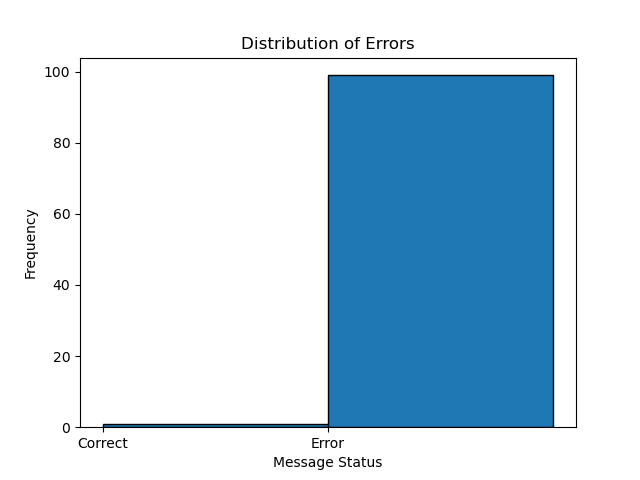
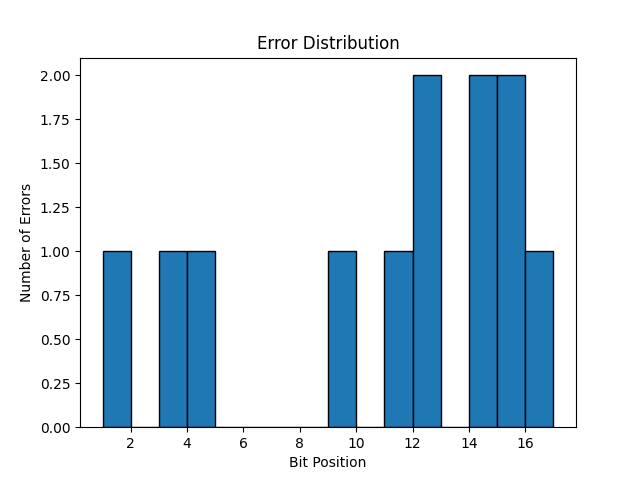
Mejora de algoritmos, implementación de pruebas y mejores estadísiticas

diff --git a/receptor.py b/receptor.py
@@ -87,6 +87,9 @@ def main():
     error_messages = 0
     error_positions = []
     all_errors = []
+    checksum_errors = []
+    message_lengths = []
+    parity_bits_counts = []
 
     while True:
         conn, addr = server_socket.accept()
@@ -103,63 +106,89 @@ def main():
                 conn.send(b'Error')
                 continue
 
-            received_checksum = fletcher_checksum(received_message)
+            # Registrar longitud del mensaje y bits de paridad
+            message_length = len(received_message)
+            parity_bits_count = calculate_parity_bits(message_length)
+            message_lengths.append(message_length)
+            parity_bits_counts.append(parity_bits_count)
+
+            # Calcular el checksum antes de cualquier corrección
+            original_checksum = fletcher_checksum(received_message)
+
+            # Decodificar el mensaje con Hamming
             decoded_message, error_position = hamming_decode(received_message)
-            recalculated_checksum = fletcher_checksum(decoded_message)
             
-            if received_checksum != recalculated_checksum:
-                print("Checksum verification failed! Possible error detected.")
+            # Calcular el checksum después de la corrección
+            corrected_checksum = fletcher_checksum(decoded_message)
+
+            # Comparar checksums
+            if original_checksum != corrected_checksum:
+                print(f"Checksum error detected: {original_checksum} != {corrected_checksum}")
+                checksum_errors.append(1)
+            else:
+                checksum_errors.append(0)
+
+            if error_position:
+                print(f"Error detected and corrected at position: {error_position}")
                 error_messages += 1
                 all_errors.append(1)
                 error_positions.append(error_position)
-                conn.send(b'Error')
             else:
-                print("Checksum verification passed. Message is intact.")
+                print("No errors detected.")
                 corrected_messages += 1
                 all_errors.append(0)
                 conn.send(b'Correct')
 
+            print(f"Received: {received_message}")
+            print(f"Decoded: {decodeASCII(decoded_message)}")
+
             received_messages += 1
-            original_message = decodeASCII(decoded_message)
-            print(f"Original message: {original_message}")
+            print(f"Total messages received: {received_messages}")
+            print(f"Corrected messages: {corrected_messages}")
+            print(f"Error messages: {error_messages}")
 
         conn.close()
         print("Connection closed.")
-        
-        # Mostrar estadísticas
-        print(f"Total messages received: {received_messages}")
-        print(f"Messages corrected: {corrected_messages}")
-        print(f"Messages with errors: {error_messages}")
 
-        # Graficar estadísticas
-        labels = ['Corrected', 'Errors']
-        sizes = [corrected_messages, error_messages]
-        colors = ['lightgreen', 'lightcoral']
-        explode = (0.1, 0)  # Explode the corrected messages
+        if received_messages >= 200:  # Ajusta esto según sea necesario
+            break
 
-        plt.pie(sizes, explode=explode, labels=labels, colors=colors, autopct='%1.1f%%', shadow=True, startangle=140)
-        plt.axis('equal')
-        plt.title('Message Correction Statistics')
-        plt.savefig('message_correction_statistics.png')  # Exportar gráfico
-        plt.close()
+    # Graficar estadísticas
+    # Graficar distribución de errores de posición
+    plt.hist(error_positions, bins=range(1, len(received_message) + 1), edgecolor='black')
+    plt.xlabel('Bit Position')
+    plt.ylabel('Number of Errors')
+    plt.title('Error Distribution')
+    plt.savefig('error_distribution.png')
+    plt.close()
 
-        # Graficar distribución de errores
-        plt.hist(all_errors, bins=[0, 1, 2], edgecolor='black')
-        plt.xticks([0, 1], ['Correct', 'Error'])
-        plt.xlabel('Message Status')
-        plt.ylabel('Frequency')
-        plt.title('Distribution of Errors')
-        plt.savefig('error_distribution.png')  # Exportar gráfico
-        plt.close()
+    # Graficar errores acumulados a lo largo del tiempo
+    x = np.arange(len(all_errors))
+    y = np.cumsum(all_errors)
+    plt.plot(x, y)
+    plt.xlabel('Messages')
+    plt.ylabel('Cumulative Errors')
+    plt.title('Cumulative Errors Over Time')
+    plt.savefig('cumulative_errors.png')
+    plt.close()
 
-        # Graficar posiciones de error
-        if error_positions:
-            plt.hist(error_positions, bins=range(1, len(received_message) + 2), edgecolor='black')
-            plt.xlabel('Position of Error')
-            plt.ylabel('Frequency')
-            plt.title('Error Positions in Messages')
-            plt.savefig('error_positions.png')  # Exportar gráfico
-            plt.close()
+    # Graficar errores de checksum a lo largo del tiempo
+    x = np.arange(len(checksum_errors))
+    y = np.cumsum(checksum_errors)
+    plt.plot(x, y)
+    plt.xlabel('Messages')
+    plt.ylabel('Checksum Errors')
+    plt.title('Checksum Errors Over Time')
+    plt.savefig('checksum_errors.png')
+    plt.close()
 
-if __name__ == "__main__":
+    # Graficar longitud de mensajes y bits de paridad
+    plt.scatter(message_lengths, parity_bits_counts)
+    plt.xlabel('Message Length')
+    plt.ylabel('Parity Bits Count')
+    plt.title('Message Length vs Parity Bits Count')
+    plt.savefig('message_length_vs_parity_bits.png')
+    plt.close()
+
+if __name__ == '__main__':
     main()

diff --git a/hammingCorrection.cpp b/hammingCorrection.cpp
@@ -6,7 +6,8 @@
 #include <sys/socket.h>
 #include <netinet/in.h>
 #include <unistd.h>
-#include <arpa/inet.h> // Necesario para inet_pton
+#include <arpa/inet.h>
+#include <cmath>
 
 // Función para calcular el número de bits de paridad necesarios
 int calculateParityBits(int m) {
@@ -103,19 +104,22 @@ void sendMessage(const std::string &message) {
 int main() {
     srand(static_cast<unsigned int>(time(0))); // Semilla para la generación de números aleatorios
 
-    int numMessages = 100; // Número de mensajes a enviar
-    double errorRate = 1.0 / 100; // Tasa de error de 1/1000
-    int minLength = 8; // Longitud mínima de los mensajes
-    int maxLength = 64; // Longitud máxima de los mensajes
+    int numMessages = 200; // Número total de mensajes a enviar
+    int correctMessageInterval = 3; // Enviar 9 mensajes correctos y 1 con ruido
+    double errorRate = 1.0 / 100; // Probabilidad de error
 
     for (int i = 0; i < numMessages; i++) {
-        std::string binaryMessage = generateRandomBinaryMessage(minLength, maxLength);
-        std::cout << "Binary message: " << binaryMessage << std::endl;
-
+        std::string binaryMessage = generateRandomBinaryMessage(8, 64);
         std::string encodedMessage = hammingEncode(binaryMessage);
-        std::string noisyMessage = applyNoise(encodedMessage, errorRate);
+        std::string messageToSend;
 
-        sendMessage(noisyMessage);
+        if ((i + 1) % correctMessageInterval == 0) {
+            messageToSend = applyNoise(encodedMessage, errorRate);
+        } else {
+            messageToSend = encodedMessage;
+        }
+
+        sendMessage(messageToSend);
     }
 
     return 0;
